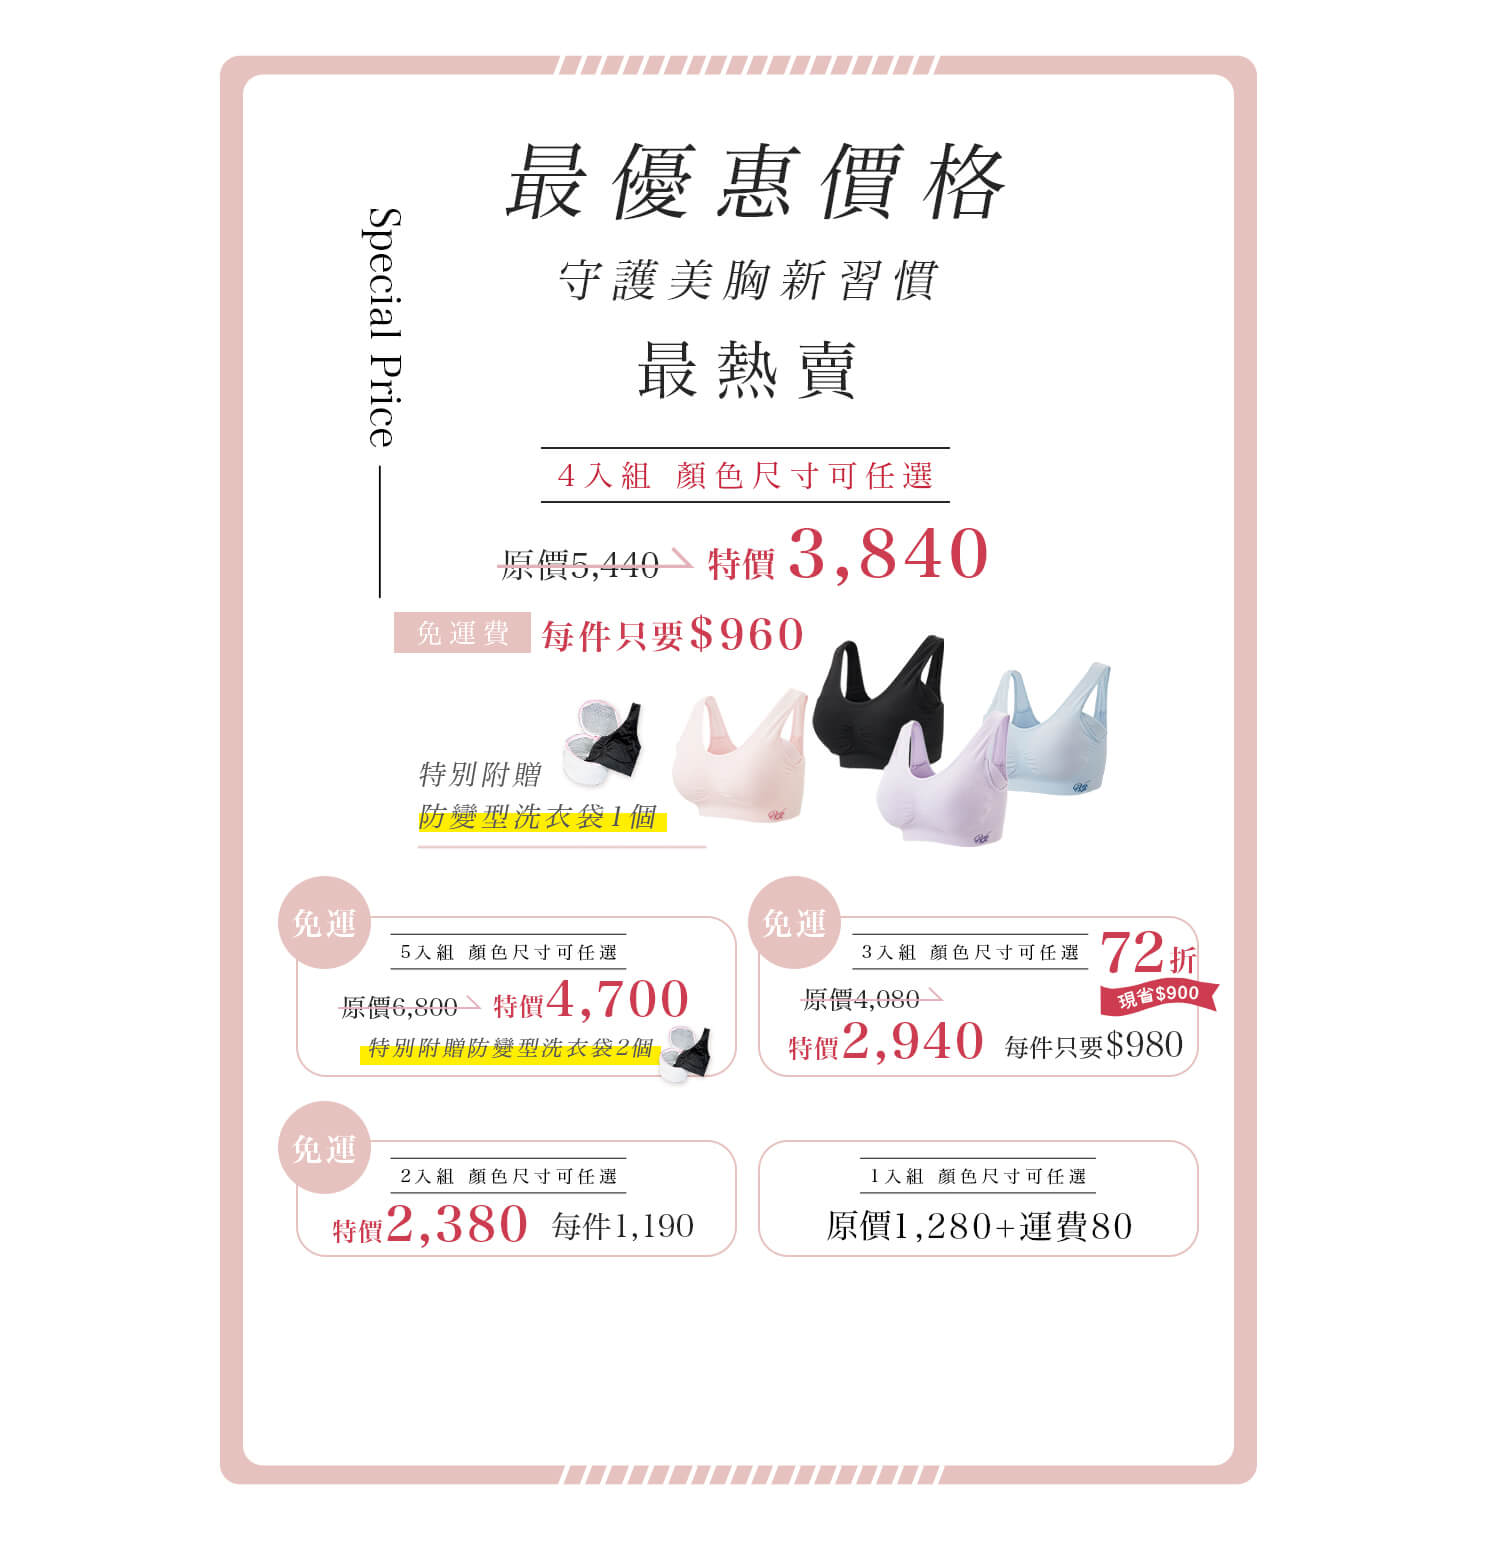
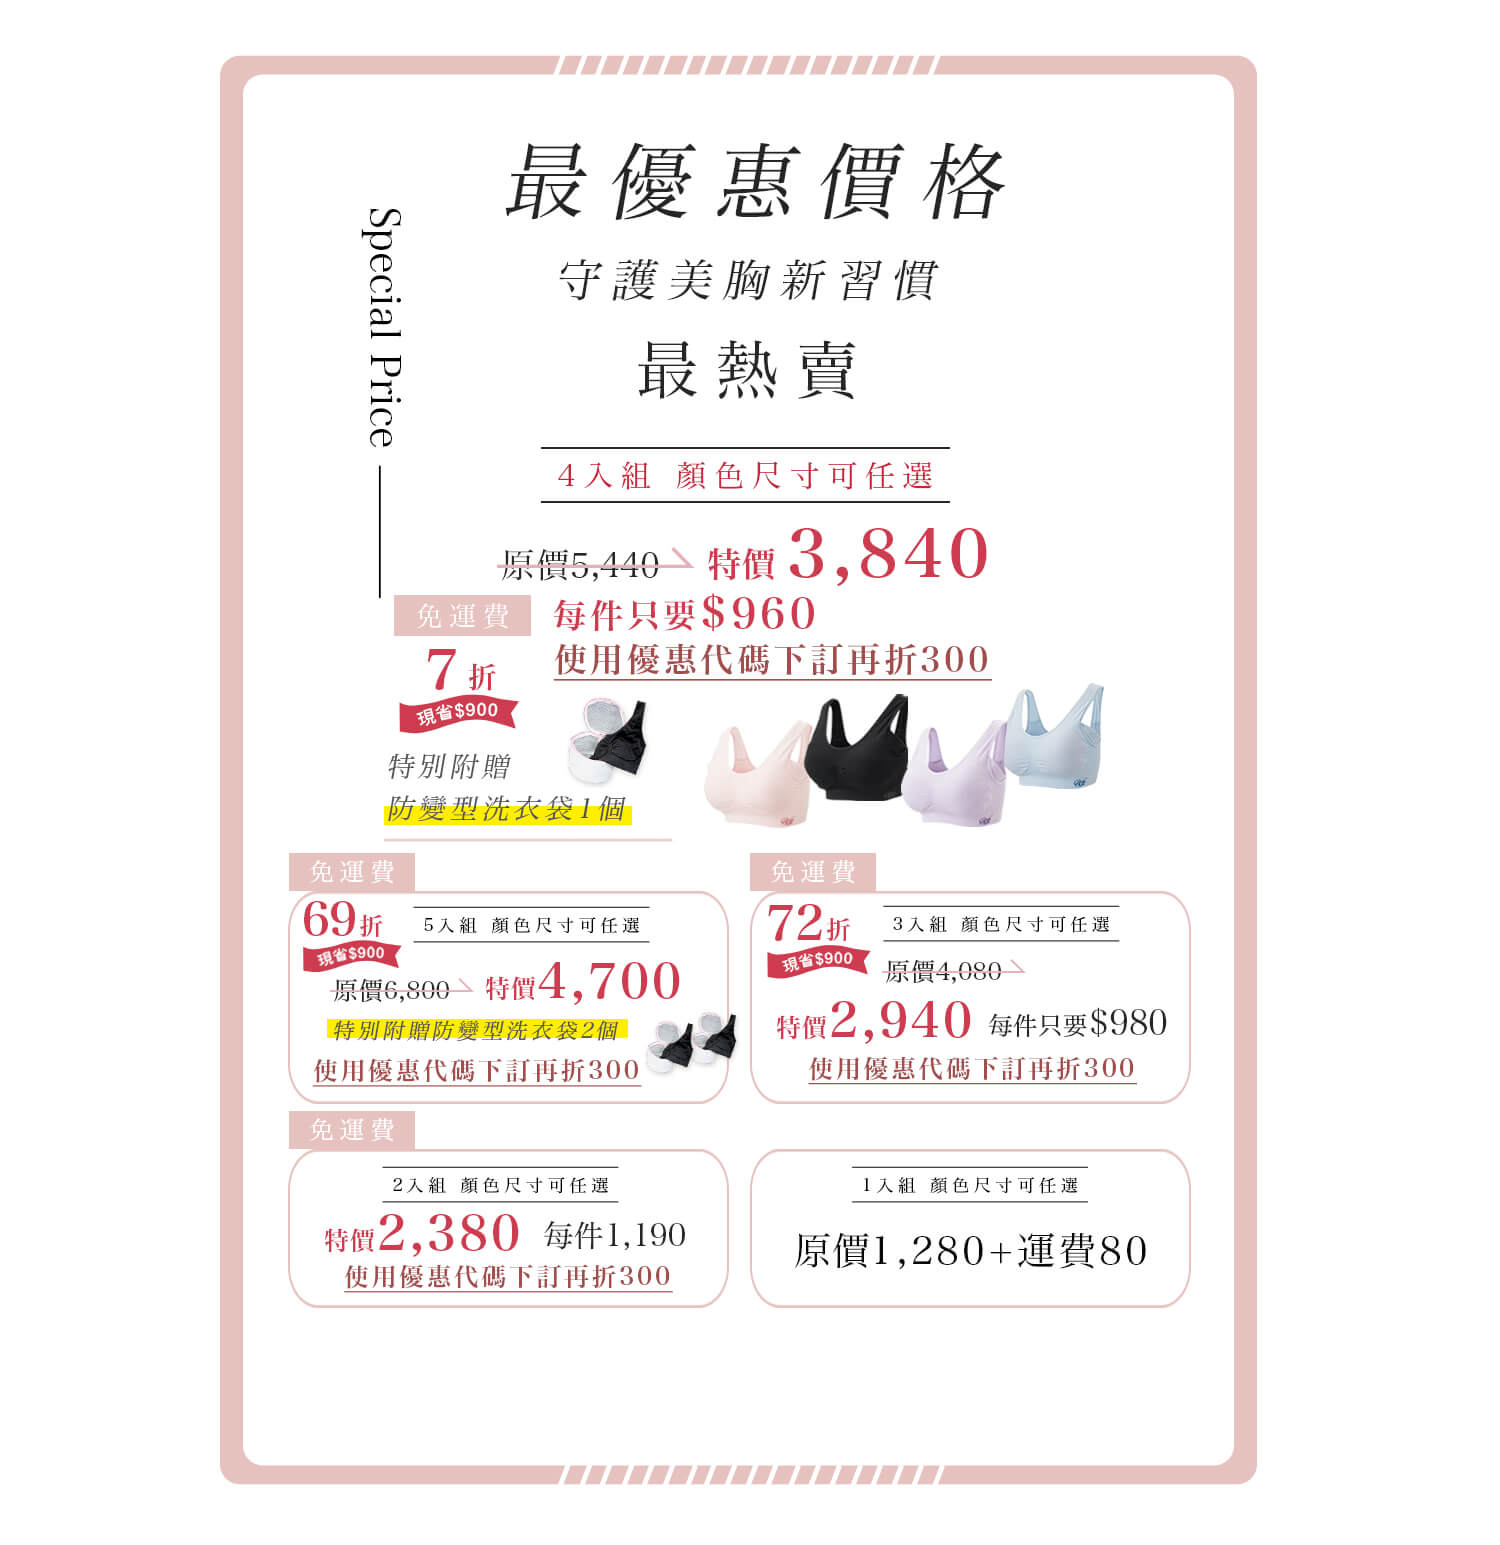
20210311_change img friend to introduced

Changed region(s): [[0.184, 0.3728, 0.828, 0.8388], [0.4907, 0.7456, 0.5213, 0.8078]]

diff --git a/index.html b/index.html
@@ -2,7 +2,7 @@
 <html>
 
 <head>
-    <title>Viage晚安立體美型內衣｜夜用內衣中的實力派</title>
+    <title>VIAGE有福同享👙拿優惠折扣3/31前下訂還可以幫好友賺購物金</title>
     <meta name="Description"
         content="日本夜間育乳術，告別外擴、下垂，立體有感好胸型！日台各大媒體熱烈報導，關愛自己的女性都在穿。白天穿鋼圈內衣，運動時穿運動內衣，睡覺時怎麼能放任胸部走山7~8小時？只要晚上正確的穿上晚安內衣，就能在睡覺的時候讓胸部也得到支撐，長久以往胸部脂肪固定在這個最佳的形狀，達到形狀記憶的效果！">
     <meta name="keywords" content="viage,viage內衣,晚安內衣,夜晚美胸,Viage晚安立體美型內衣">
@@ -15,7 +15,7 @@
         content="日本夜間育乳術，告別外擴、下垂，立體有感好胸型！日台各大媒體熱烈報導，關愛自己的女性都在穿。白天穿鋼圈內衣，運動時穿運動內衣，睡覺時怎麼能放任胸部走山7~8小時？只要晚上正確的穿上晚安內衣，就能在睡覺的時候讓胸部也得到支撐，長久以往胸部脂肪固定在這個最佳的形狀，達到形狀記憶的效果！">
     <meta property="og:image:width" content="1200">
     <meta property="og:image:height" content="630">
-    <meta property="og:image" content="images/01_main.jpg">
+    <meta property="og:image" content="img/01.jpg">
 
     <meta http-equiv="Content-Type" content="text/html; charset=utf-8">
     <meta name="google-site-verification" content="pCcxW19gvZyZKQUa5lqnK7vegyQo6L3rKf5nxlsHTSk" />
@@ -92,14 +92,14 @@
                 <div class="PC">
                     <img src="./img/01_banner.jpg" alt="">
                     <img src="./img/01.jpg" alt="">
-                    <img src="./img/02_friend_1.png" style="width:70%;" alt="">
+                    <img src="./img/02_introduced_1.png" style="width:70%;" alt="">
                     <img src="./img/03.jpg" style="width:70%;" alt="">
                     <img src="./img/ig_title.jpg" alt="" style="width:70%;">
                 </div>
                 <div class="SP">
                     <img src="./img/SP/SP_01_banner.jpg" alt="">
                     <img src="./img/SP/SP_01.jpg" alt="">
-                    <img src="./img/SP/SP_02_friend_1.png" alt="">
+                    <img src="./img/SP/SP_02_introduced_1.png" alt="">
                     <img src="./img/SP/SP_03.jpg" alt="">
                     <img src="./img/SP/SP_ig_title.jpg" alt="">
                 </div>
@@ -141,7 +141,7 @@
                     <img src="./img/17.jpg" style="width:70%;" alt="">
                     <img src="./img/18.jpg" style="width:70%;" alt="">
                     <img src="./img/19.jpg" style="width:70%;" alt="">
-                    <img src="./img/19_friend_2.png" style="width:70%;" alt="">
+                    <img src="./img/19_introduced_2.png" style="width:70%;" alt="">
                 </div>
                 <div class="SP">
                     <div class="offerbox_m">
@@ -184,7 +184,7 @@
                     <img src="./img/SP/SP_18.jpg" alt="">
                     <img src="./img/SP/SP_19.jpg" alt="">
                     <img src="./img/SP/SP_20.jpg" alt="">
-                    <img src="./img/SP/SP_20_friend_2.png" alt="">
+                    <img src="./img/SP/SP_20_introduced_2.png" alt="">
                 </div>
                 <div id="size">
                     <div class="PC">

diff --git a/css/style.css b/css/style.css
@@ -27,7 +27,7 @@ html,body {
     position: absolute;
     width: 20%;
     display: block;
-    bottom: 10%;
+    bottom: 8%;
     right: 40%;
 }
 
@@ -40,7 +40,7 @@ html,body {
     width: 63%;
     display: block;
     right: 18%;
-    top: 46.5%;
+    top: 40.5%;
 }
 
 .SP .offerbox_m .offerbtn_m_2{
@@ -48,7 +48,7 @@ html,body {
     width: 63%;
     display: block;
     right: 18%;
-    bottom: 2.5%;
+    bottom: 1%;
 }
 
 .offerbtn:hover{
